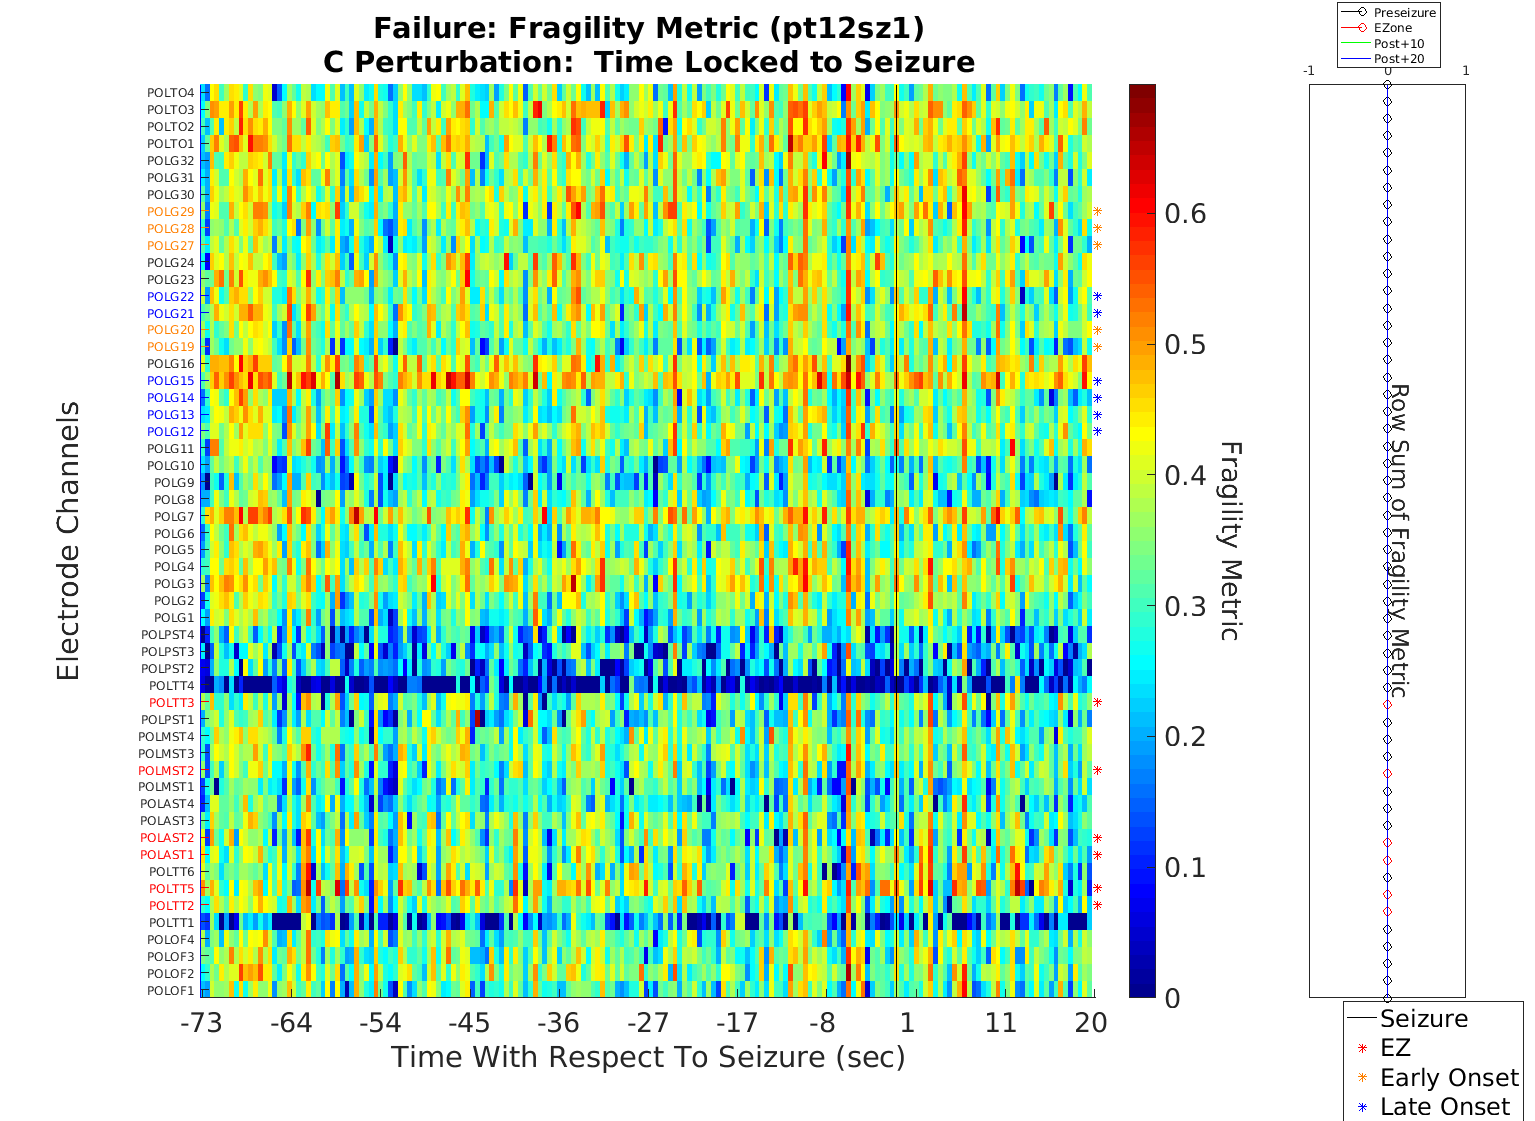
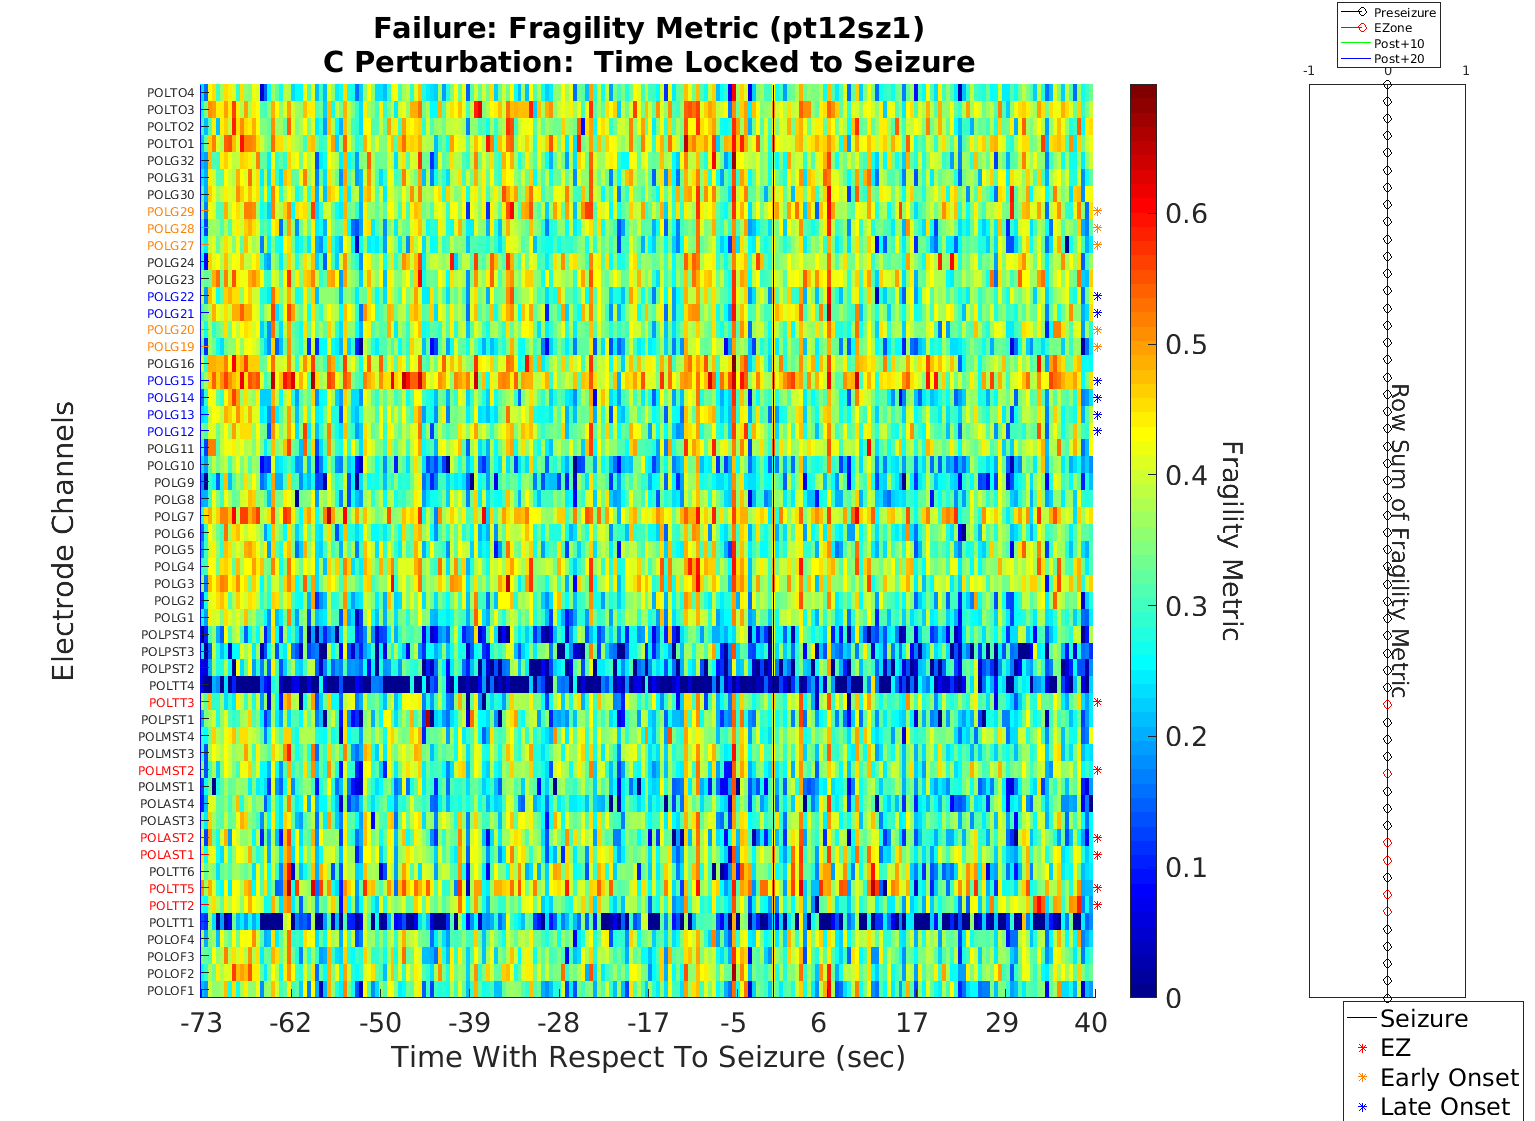
Adding pt15 redone for w/s 500/500.

diff --git a/fragility_dataanalysis/determineClinicalAnnotations.m b/fragility_dataanalysis/determineClinicalAnnotations.m
@@ -356,6 +356,9 @@ function [included_channels, ezone_labels, ...
         % removed G25, B2, B1, RIM, RIPI
         included_channels = [1:19 21:35 37 39 40 43:74 76:81 83:84 101:128];
         
+        % remove LG, LIPI, LIM, LIAI -> left hemisphere electrodes
+        included_channels = [1:19 21:35 37 39 40 43:74 76:81 83:84];
+        
 %         if REGION_ONLY of microgrid electrodes
 %             included_channels = [11:19 21:37 39:40 43:62];
 %         end
@@ -413,11 +416,11 @@ function [included_channels, ezone_labels, ...
         
         ezone_labels = {'POLTT1', 'POLTT2', 'POLTT3', 'POLTT4', ...
             'POLMST1', 'POLMST2', 'POLAST1', 'POLAST2', 'POLAST3'};
-        if strcmp(seizure_id, 'sz1') % getting rid of TT5, which isn't in clinical EZ
-            included_channels = [2:7 9:30 32:36 41:42 45:69 71:86 88:89];
-            ezone_labels = {'POLTT1', 'POLTT2', 'POLTT3', 'POLTT4', 'POLTT5', ...
-                        'POLMST1', 'POLMST2', 'POLAST1', 'POLAST2', 'POLAST3'};
-        end
+%         if strcmp(seizure_id, 'sz1') % getting rid of TT5, which isn't in clinical EZ
+%             included_channels = [2:7 9:30 32:36 41:42 45:69 71:86 88:89];
+%             ezone_labels = {'POLTT1', 'POLTT2', 'POLTT3', 'POLTT4', 'POLTT5', ...
+%                         'POLMST1', 'POLMST2', 'POLAST1', 'POLAST2', 'POLAST3'};
+%         end
         earlyspread_labels = {'POLMST3', 'POLMST4', 'POLPST1', 'POLPST2', 'POLMST5'};
         latespread_labels = {'POLTO5', 'POLTO6', 'POLOF2', 'POLOF3', 'POLG22'};
         

diff --git a/fragility_dataanalysis/fragility_library/connectivity_library/computeConnectivity.m b/fragility_dataanalysis/fragility_library/connectivity_library/computeConnectivity.m
@@ -38,11 +38,11 @@ function [adjMats, timePoints] = computeConnectivity(eeg, adj_args)
         % apply band notch filter to eeg data
         eeg = buttfilt(eeg,[59.5 60.5], frequency_sampling,'stop',1);
         % apply band notch filter to eeg data
-        eeg = buttfilt(eeg,[119.5 120.5], frequency_sampling,'stop',1);
-        % apply band notch filter to eeg data
-        eeg = buttfilt(eeg,[179.5 180.5], frequency_sampling,'stop',1);
-        % apply band notch filter to eeg data
-        eeg = buttfilt(eeg,[239.5 240.5], frequency_sampling,'stop',1);
+%         eeg = buttfilt(eeg,[119.5 120.5], frequency_sampling,'stop',1);
+%         % apply band notch filter to eeg data
+%         eeg = buttfilt(eeg,[179.5 180.5], frequency_sampling,'stop',1);
+%         % apply band notch filter to eeg data
+%         eeg = buttfilt(eeg,[239.5 240.5], frequency_sampling,'stop',1);
     else
         preFiltFreq      = []; %keep this empty to avoid any filtering of the raw data
         preFiltType      = 'stop';

diff --git a/fragility_dataanalysis/fragility_library/plotting_library/plotFragilityMetric.m b/fragility_dataanalysis/fragility_library/plotting_library/plotFragilityMetric.m
@@ -40,9 +40,10 @@ function plotFragilityMetric(fragility_mat, minPert_mat, clinicalIndices,...
     rowsum_preseize = sum(thresh_fragility(:, 1:seizureMarkStart), 2);
     
     if seizureMarkStart < size(thresh_fragility,2) - 10
-        fragility_mat = fragility_mat(:, 1:seizureMarkStart+20*frequency_sampling/stepSize);
-        timePoints = timePoints(1:seizureMarkStart + 20*frequency_sampling/stepSize, :);
-        timeEnd = 20;
+        timeEnd = 40;
+        fragility_mat = fragility_mat(:, 1:seizureMarkStart+timeEnd*frequency_sampling/stepSize);
+        timePoints = timePoints(1:seizureMarkStart + timeEnd*frequency_sampling/stepSize, :);
+        
     end
     
     %% Step 1: Plot Heatmap

diff --git a/fragility_dataanalysis/runPlotsAndDOA.m b/fragility_dataanalysis/runPlotsAndDOA.m
@@ -16,10 +16,10 @@ patients = {,...,
 %     'pt10sz1','pt10sz2' 'pt10sz3', ...
 %     'pt11sz1' 'pt11sz2' 'pt11sz3' 'pt11sz4', ...
 %     'pt12sz1', 'pt12sz2', ...
-    'pt13sz1', 'pt13sz2', 'pt13sz3', 'pt13sz5',...
-    'pt14sz1' 'pt14sz2' 'pt14sz3'  'pt16sz1' 'pt16sz2' 'pt16sz3',...
+%     'pt13sz1', 'pt13sz2', 'pt13sz3', 'pt13sz5',...
+%     'pt14sz1' 'pt14sz2' 'pt14sz3'  'pt16sz1' 'pt16sz2' 'pt16sz3',...
     'pt15sz1' 'pt15sz2' 'pt15sz3' 'pt15sz4',...
-    'pt16sz1' 'pt16sz2' 'pt16sz3',...
+%     'pt16sz1' 'pt16sz2' 'pt16sz3',...
 %     'pt17sz1' 'pt17sz2',...
 %     'JH101sz1' 'JH101sz2' 'JH101sz3' 'JH101sz4',...
 % 	'JH102sz1' 'JH102sz2' 'JH102sz3' 'JH102sz4' 'JH102sz5' 'JH102sz6',...

diff --git a/fragility_dataanalysis/server/devVaryingWindows/serverAdjMainScript.m b/fragility_dataanalysis/server/devVaryingWindows/serverAdjMainScript.m
@@ -10,6 +10,7 @@ if nargin == 0 % testing purposes
     patient='EZT009seiz001';
 %     patient='JH102sz6';
     patient='pt7sz19';
+    patient ='pt11sz1';
     % window paramters
     winSize = 250; % 500 milliseconds
     stepSize = 125; 
@@ -59,7 +60,7 @@ end
 % set dir to find raw data files
 dataDir = fullfile('./data/', center);
 % set directory to save computed data
-toSaveAdjDir = fullfile('./harmonics_adjmats/', strcat('win', num2str(winSize), ...
+toSaveAdjDir = fullfile('./adjmats/', strcat('win', num2str(winSize), ...
     '_step', num2str(stepSize), '_freq', num2str(frequency_sampling)), patient); % at lab
 
 %%- If using External HardDrive
